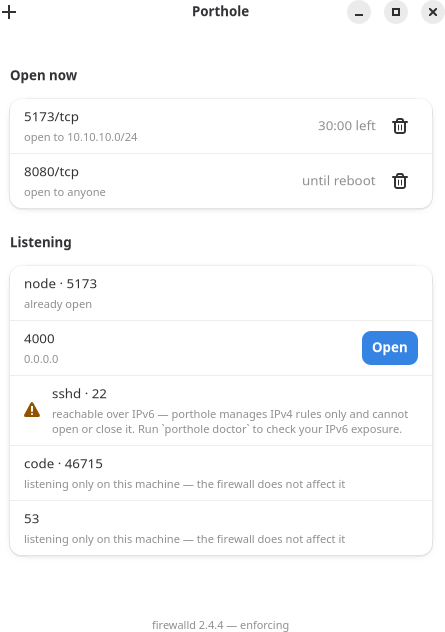
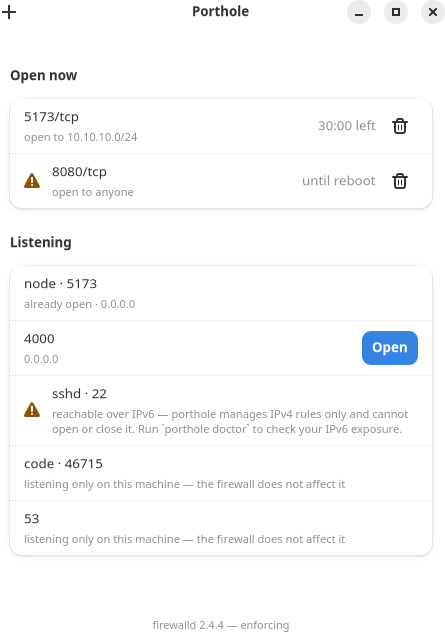
fix(gui,core,cli): the final wave -- an MSRV check, dual-stack rows, and five overclaims
porthole-gui had no MSRV check anywhere; add a pinned 1.87 toolchain to
Containerfile.gui and cargo +1.87 check to gui-test.sh. Finding: the
gtk4-rs/libadwaita/glib stack compiles clean under 1.87, no floor raise
needed. Installing rustup nearly broke the pre-existing clippy gate --
Cargo's subcommand search checks $CARGO_HOME/bin regardless of PATH, so
rustup's own cargo-clippy shim shadowed dnf's -- fixed by keeping the 1.87
toolchain in an isolated CARGO_HOME/RUSTUP_HOME never on PATH.

Also: porthole listen's human view and the Listening section's already-open
branch both get an address column/suffix so dual-stack rows sharing a port
read as two sockets, not one listed twice; the no-firewall status detail
drops its dim-caption styling so it visibly belongs to the banner it
explains; and five smaller overclaims (ipc::SERVICE's doc, a mislabeled
adw::ToolbarView construction, an allocating fn that should be a const) are
corrected. docs/screenshot.png regenerated and confirmed by eye to show the
open-to-anyone warning mark.

Changed region(s): [[0.0584, 0.2405, 0.2921, 0.3307], [0.3798, 0.962, 0.4674, 1.0], [0.5551, 0.962, 0.6427, 1.0]]

diff --git a/crates/porthole-cli/src/output.rs b/crates/porthole-cli/src/output.rs
@@ -425,6 +425,17 @@ fn render_listening(services: &[Service]) -> String {
         .map(|s| s.process.as_deref().unwrap_or("—").chars().count())
         .max()
         .unwrap_or(0);
+    // A dual-stack service (one socket on `0.0.0.0`, another on `::`) shares
+    // its port and process name with its own other socket, so without this
+    // column the two rows print as visually identical pairs -- on an
+    // ordinary desktop, half the list or more. `address_width` over every
+    // service, the same way `port_width`/`name_width` already are, so this
+    // column lines up across every group too.
+    let address_width = services
+        .iter()
+        .map(|s| s.address.to_string().chars().count())
+        .max()
+        .unwrap_or(0);
 
     let network_facing: Vec<&Service> = services
         .iter()
@@ -439,7 +450,13 @@ fn render_listening(services: &[Service]) -> String {
         .filter(|s| s.binding == Binding::LoopbackOnly)
         .collect();
 
-    append_listening_rows(&mut out, &network_facing, port_width, name_width);
+    append_listening_rows(
+        &mut out,
+        &network_facing,
+        port_width,
+        name_width,
+        address_width,
+    );
 
     if !beyond_reach.is_empty() {
         if !network_facing.is_empty() {
@@ -451,7 +468,13 @@ fn render_listening(services: &[Service]) -> String {
              open or close these:"
         )
         .expect(w);
-        append_listening_rows(&mut out, &beyond_reach, port_width, name_width);
+        append_listening_rows(
+            &mut out,
+            &beyond_reach,
+            port_width,
+            name_width,
+            address_width,
+        );
     }
 
     if !loopback.is_empty() {
@@ -463,29 +486,36 @@ fn render_listening(services: &[Service]) -> String {
             "Loopback only — opening the firewall for these changes nothing:"
         )
         .expect(w);
-        append_listening_rows(&mut out, &loopback, port_width, name_width);
+        append_listening_rows(&mut out, &loopback, port_width, name_width, address_width);
     }
 
     out
 }
 
+/// `address_width` disambiguates a dual-stack service's two rows -- the same
+/// port and process name, one bound to `0.0.0.0`, the other to `::` -- so
+/// they read as two distinct sockets rather than one service printed twice.
+/// See this function's own caller for why the width is computed once, over
+/// every service, rather than per group.
 fn append_listening_rows(
     out: &mut String,
     services: &[&Service],
     port_width: usize,
     name_width: usize,
+    address_width: usize,
 ) {
     use std::fmt::Write as _;
     for service in services {
         let port_proto = format!("{}/{}", service.port, service.protocol);
         let process = service.process.as_deref().unwrap_or("—").to_string();
+        let address = service.address.to_string();
         let pid = service
             .pid
             .map(|p| p.to_string())
             .unwrap_or_else(|| "unknown".to_string());
         writeln!(
             out,
-            "  {port_proto:port_width$}  {process:name_width$}  pid {pid}"
+            "  {port_proto:port_width$}  {process:name_width$}  {address:address_width$}  pid {pid}"
         )
         .expect("writing to a String cannot fail");
     }
@@ -925,5 +955,44 @@ mod tests {
         let services = vec![service(53, Binding::LoopbackOnly, None, None)];
         let text = render_listening(&services);
         assert!(text.contains("Loopback only — opening the firewall for these changes nothing:"));
+    }
+
+    #[test]
+    fn dual_stack_rows_sharing_a_port_read_as_two_sockets_not_one_listed_twice() {
+        // A dual-stack service (one socket on `0.0.0.0`, one on `::`) shares
+        // its port, protocol and process name -- both classify as
+        // `AllInterfaces` -- so without an address column the two rows were
+        // literally identical text, which reads as a duplicate rather than
+        // two real sockets. `service()` always derives its address from the
+        // binding, so this test builds both rows directly rather than
+        // through that helper.
+        use porthole_core::model::Protocol;
+        use std::net::{IpAddr, Ipv4Addr, Ipv6Addr};
+
+        let v4 = Service {
+            port: 53,
+            protocol: Protocol::Tcp,
+            address: IpAddr::V4(Ipv4Addr::UNSPECIFIED),
+            binding: Binding::AllInterfaces,
+            process: Some("dnsmasq".to_string()),
+            pid: Some(100),
+        };
+        let v6 = Service {
+            port: 53,
+            protocol: Protocol::Tcp,
+            address: IpAddr::V6(Ipv6Addr::UNSPECIFIED),
+            binding: Binding::AllInterfaces,
+            process: Some("dnsmasq".to_string()),
+            pid: Some(100),
+        };
+        let text = render_listening(&[v4, v6]);
+        let rows: Vec<&str> = text.lines().filter(|l| l.contains("53/tcp")).collect();
+        assert_eq!(rows.len(), 2, "expected both rows, got: {text}");
+        assert_ne!(
+            rows[0], rows[1],
+            "two distinct sockets must not render as identical lines: {text}"
+        );
+        assert!(rows[0].contains("0.0.0.0"), "got: {text}");
+        assert!(rows[1].contains("::"), "got: {text}");
     }
 }

diff --git a/crates/porthole-gui/src/listening_section.rs b/crates/porthole-gui/src/listening_section.rs
@@ -185,11 +185,8 @@ const LOOPBACK_SUBTITLE: &str = "listening only on this machine — the firewall
 /// worded so it shares no sentence with [`LOOPBACK_SUBTITLE`] -- see this
 /// module's own doc comment, and `porthole_core::listening::Binding`'s, for
 /// why merging these two is the exact mistake a past review caught here.
-fn beyond_reach_subtitle() -> String {
-    "reachable over IPv6 — porthole manages IPv4 rules only and cannot open \
-     or close it. Run `porthole doctor` to check your IPv6 exposure."
-        .to_string()
-}
+const BEYOND_REACH_SUBTITLE: &str = "reachable over IPv6 — porthole manages IPv4 rules only and \
+     cannot open or close it. Run `porthole doctor` to check your IPv6 exposure.";
 
 /// Every row's subtitle. Always `Some` in this section's own design: even a
 /// service with no Docker/loopback/reach caveat and no already-open
@@ -199,10 +196,17 @@ fn beyond_reach_subtitle() -> String {
 fn subtitle_for(service: &Service, open_ports: &HashSet<u16>) -> String {
     match service.binding {
         Binding::LoopbackOnly => LOOPBACK_SUBTITLE.to_string(),
-        Binding::BeyondReach(_) => beyond_reach_subtitle(),
+        Binding::BeyondReach(_) => BEYOND_REACH_SUBTITLE.to_string(),
         Binding::AllInterfaces | Binding::Specific(_) => {
             if open_ports.contains(&service.port) {
-                "already open".to_string()
+                // The address stays on this branch too -- see this module's
+                // own doc comment on dual-stack rows. Two sockets that share
+                // a port *and* are already open bypassed that
+                // disambiguation before this fix: both produced the bare
+                // string "already open", identical text for two genuinely
+                // different sockets, the same collapse the plain address
+                // branch below exists to prevent.
+                format!("already open · {}", service.address)
             } else {
                 service.address.to_string()
             }
@@ -633,8 +637,30 @@ mod tests {
         open.insert(5173);
         assert_eq!(
             subtitle_for(&svc(5173, Some("node"), Binding::AllInterfaces), &open),
-            "already open"
+            "already open · 0.0.0.0"
         );
+    }
+
+    #[test]
+    fn two_already_open_dual_stack_rows_still_read_as_two_sockets() {
+        // The already-open branch used to bypass the address-based
+        // disambiguation entirely, so two dual-stack rows that share a
+        // port that is *also* already open both rendered the bare string
+        // "already open" -- identical text for two different sockets, the
+        // exact collapse this module's own doc comment on dual-stack rows
+        // says the subtitle must never produce.
+        let mut open = HashSet::new();
+        open.insert(53);
+        let v4 = svc(53, None, Binding::AllInterfaces);
+        let v6 = svc(53, None, Binding::Specific("10.0.0.5".parse().unwrap()));
+        let v4_subtitle = subtitle_for(&v4, &open);
+        let v6_subtitle = subtitle_for(&v6, &open);
+        assert_ne!(
+            v4_subtitle, v6_subtitle,
+            "two already-open sockets sharing a port must not render identically"
+        );
+        assert!(v4_subtitle.contains("0.0.0.0"), "got: {v4_subtitle}");
+        assert!(v6_subtitle.contains("10.0.0.5"), "got: {v6_subtitle}");
     }
 
     #[test]

diff --git a/crates/porthole-gui/tests/status_bar.rs b/crates/porthole-gui/tests/status_bar.rs
@@ -354,13 +354,53 @@ fn the_ordinary_line_is_cleared_once_the_banner_takes_over() -> Result<(), Strin
     Ok(())
 }
 
+/// The re-reviewer's own residual on item 9's original fix: the no-firewall
+/// detail sits on the same `gtk::Label` `StatusBar::new` gives `dim-label`/
+/// `caption` unconditionally, so the explanation of a prominent warning
+/// banner rendered small and grey at the opposite end of the window from the
+/// banner it explains. This checks the real widget's own CSS classes, not
+/// just its text: the no-firewall case must drop `dim-label`, and an
+/// ordinary enforcing refresh -- including one that follows a no-firewall
+/// refresh -- must still carry it.
+fn the_no_firewall_detail_line_is_not_styled_as_a_dim_caption() -> Result<(), String> {
+    let result = Rc::new(RefCell::new(None));
+    let seen = result.clone();
+    activate(
+        "com.jacopobriccola.Porthole.Test.StatusNoFirewallStyling",
+        move |_app| {
+            let bar = StatusBar::new();
+            bar.set_status(&status(None, false));
+            let dim_while_no_firewall = bar.line_widget().has_css_class("dim-label");
+            bar.set_status(&status(Some(("firewalld", "2.4.4")), true));
+            let dim_after_recovering = bar.line_widget().has_css_class("dim-label");
+            *seen.borrow_mut() = Some((dim_while_no_firewall, dim_after_recovering));
+        },
+    );
+    let (dim_while_no_firewall, dim_after_recovering) =
+        result.borrow_mut().take().ok_or("activation never ran")?;
+    if dim_while_no_firewall {
+        return Err(
+            "the no-firewall detail must not be styled as a dim caption while it is showing"
+                .to_string(),
+        );
+    }
+    if !dim_after_recovering {
+        return Err(
+            "an ordinary enforcing refresh following a no-firewall one must restore the \
+             line's usual dim styling"
+                .to_string(),
+        );
+    }
+    Ok(())
+}
+
 /// One named check, run by `main` below -- see `tests/window.rs`'s own
 /// `Case` alias for why this is a type alias rather than spelled out
 /// inline.
 type Case = (&'static str, fn() -> Result<(), String>);
 
 fn main() {
-    let cases: [Case; 8] = [
+    let cases: [Case; 9] = [
         (
             "the_status_line_names_the_backend_and_whether_it_is_enforcing",
             the_status_line_names_the_backend_and_whether_it_is_enforcing,
@@ -392,6 +432,10 @@ fn main() {
         (
             "the_ordinary_line_is_cleared_once_the_banner_takes_over",
             the_ordinary_line_is_cleared_once_the_banner_takes_over,
+        ),
+        (
+            "the_no_firewall_detail_line_is_not_styled_as_a_dim_caption",
+            the_no_firewall_detail_line_is_not_styled_as_a_dim_caption,
         ),
     ];
 

diff --git a/crates/porthole-gui/src/status_bar.rs b/crates/porthole-gui/src/status_bar.rs
@@ -84,6 +84,7 @@
 //! whenever the banner takes over, so a stale confirmed claim from a
 //! previous, better refresh cannot linger underneath it.
 
+use adw::prelude::*;
 use porthole_core::ipc::WireStatus;
 
 /// [`StatusBar::set_status`]'s no-firewall banner title -- short, and
@@ -209,6 +210,13 @@ impl StatusBar {
         if !status.firewall_available {
             self.show_banner(NO_FIREWALL_TITLE);
             self.line.set_label(&status.detail);
+            // `show_banner` restores `dim-label` (the ordinary line's
+            // default styling) along with clearing the text -- wrong here:
+            // `status.detail` is the explanation of the banner sitting at
+            // the opposite end of the window, not an ordinary dim caption,
+            // and rendering it small and grey made it easy for the eye to
+            // never connect the two. See this module's own doc comment.
+            self.line.remove_css_class("dim-label");
             return;
         }
         self.banner.set_revealed(false);
@@ -217,6 +225,10 @@ impl StatusBar {
             backend_name(status),
             state_word(status)
         ));
+        // The ordinary case always restores the dim styling -- a caller
+        // going no-firewall -> installed-and-active must not leave the line
+        // looking like it is still explaining a banner that is gone.
+        self.line.add_css_class("dim-label");
     }
 
     /// Renders one of the three prominent cases: porthole could not even
@@ -257,6 +269,14 @@ impl StatusBar {
         self.banner.set_title(title);
         self.banner.set_revealed(true);
         self.line.set_label("");
+        // Restores the line's ordinary dim styling -- `set_status`'s own
+        // no-firewall branch is the one caller that immediately removes it
+        // again, since that is the one case where `line` goes on to carry
+        // meaningful text of its own (see this module's own doc comment).
+        // For the other two callers the line is empty anyway, but leaving
+        // this unconditional keeps a stale non-dim style from surviving
+        // into whichever case runs next.
+        self.line.add_css_class("dim-label");
     }
 
     /// The banner's own title while it is the one showing, the line's own

diff --git a/crates/porthole-gui/src/screenshot.rs b/crates/porthole-gui/src/screenshot.rs
@@ -189,8 +189,8 @@ fn capture(win: &PortholeWindow, path: &Path) -> Result<(), String> {
     // ordinarily resolves to on a `PortholeWindow` -- an entirely different,
     // smaller widget nested inside this one, whose own screenshot would
     // exclude the header bar, banner and bottom status line entirely). This
-    // is the `adw::ToolbarView` `PortholeWindow::new`'s own construction
-    // gives the window as a whole.
+    // is the `adw::ToolbarView` that gives the window its content as a
+    // whole.
     let content = AdwApplicationWindowExt::content(&**win)
         .ok_or_else(|| "the window has no content widget to render".to_string())?;
     let parent = content

diff --git a/crates/porthole-core/src/ipc.rs b/crates/porthole-core/src/ipc.rs
@@ -15,7 +15,10 @@ use crate::state::ManagedRule;
 use serde::{Deserialize, Serialize};
 use zbus::zvariant::Type;
 
-/// The well-known name the helper owns on the system bus.
+/// The well-known name the helper owns -- the system bus in production, or
+/// the session bus when the helper is started with `--session` (tests only;
+/// see `porthole_helper::main`'s own module doc). The name itself is
+/// identical either way.
 pub const SERVICE: &str = "com.jacopobriccola.Porthole";
 /// The object the helper serves.
 pub const PATH: &str = "/com/jacopobriccola/Porthole";
